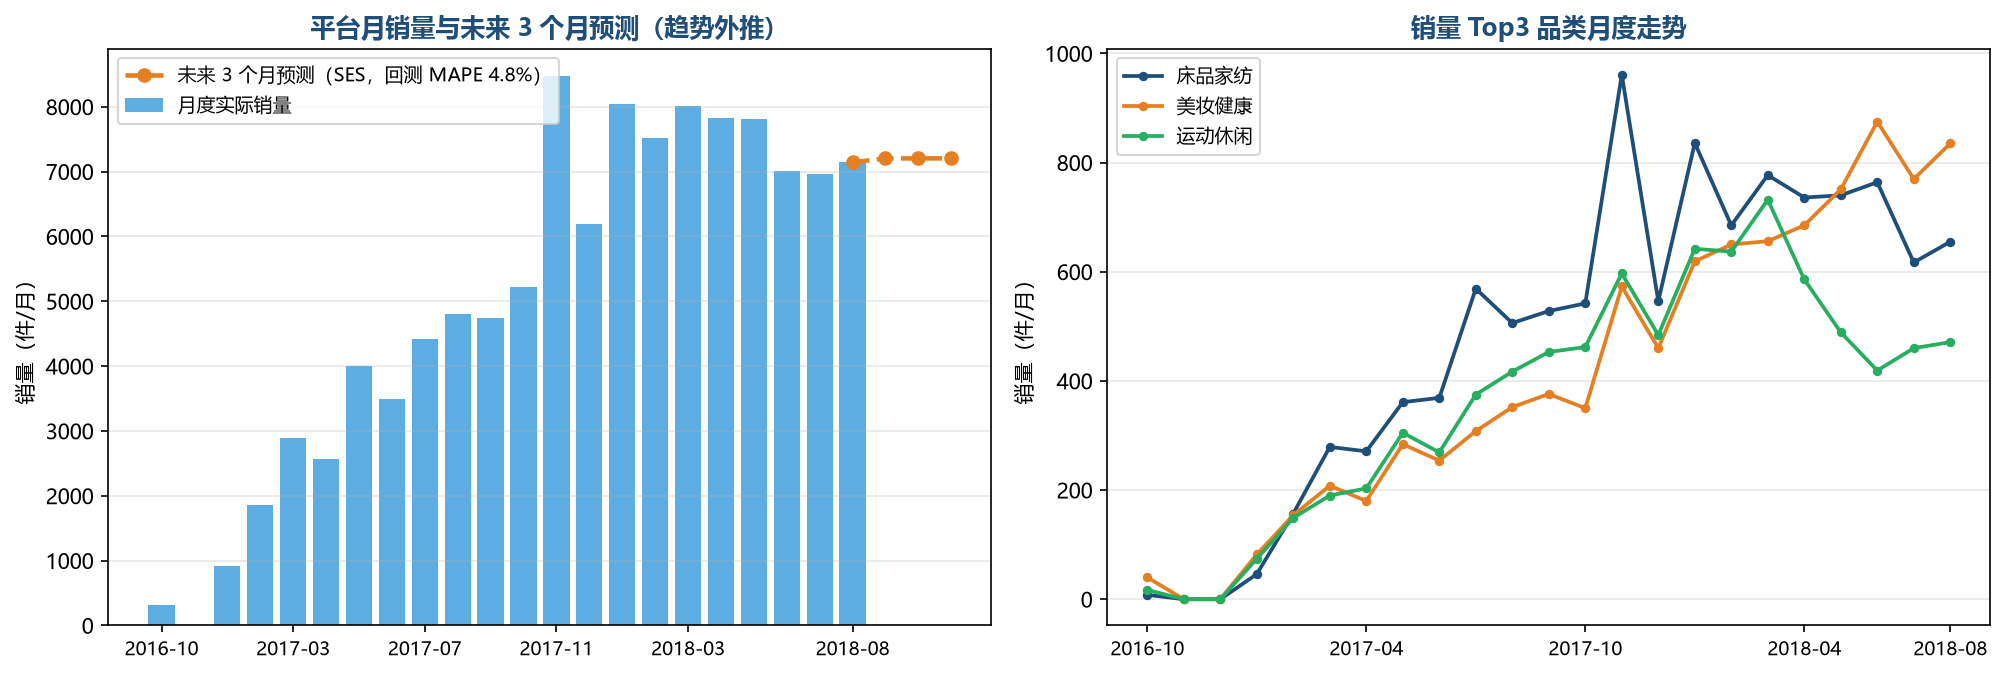
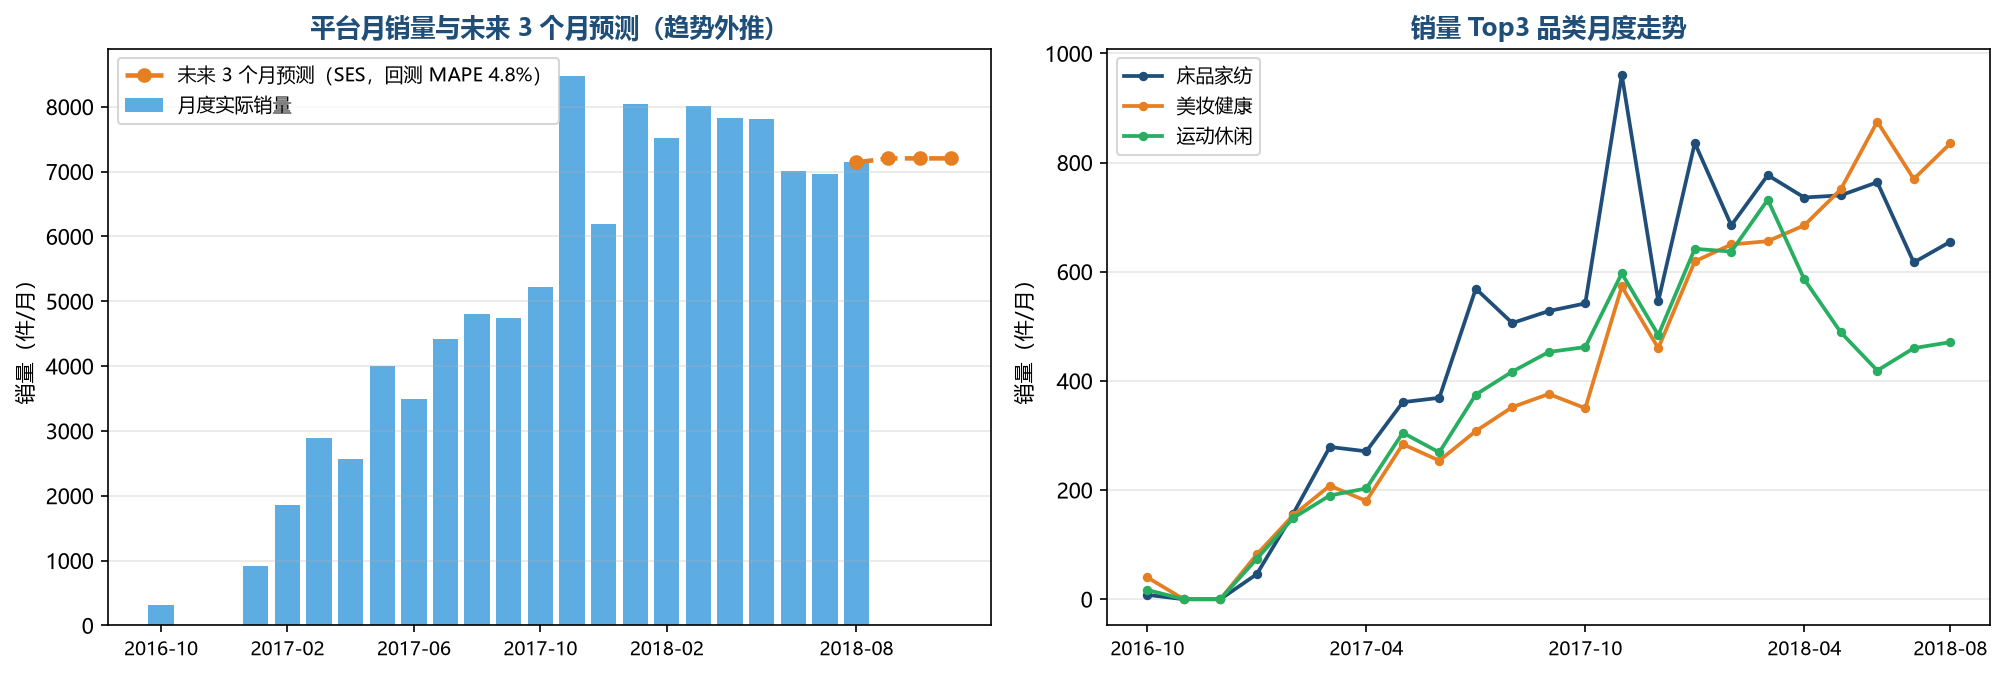
修复预测模型对照的两处口径问题（不影响简历数字）
- 修复 SES 列全 NaN：平滑值序列长度不匹配（应取最后一个水平值展开成验证期预测）
- 修复平台月度序列缺月未补：补 0 后序列 23 个月，时间轴连续
- 修复后对照结果：SES 4.8% / 线性回归 38.3% / 移动平均 8.1%（与简历一致）
- 报告与口径同步：月均销量 4,791 件、序列 23 个月、回测前 19 月训练

Changed region(s): [[0.0928, 0.1244, 0.4638, 0.9956], [0.0618, 0.9333, 0.0928, 0.9644]]

diff --git a/market/analysis.py b/market/analysis.py
@@ -230,7 +230,8 @@ for 品类 in top8:
 
 pred_df = pd.DataFrame(rows)
 
-tot = monthly.groupby("月份")["件数"].sum().sort_index()
+tot = monthly.groupby("月份")["件数"].sum().sort_index().reindex(
+    pd.period_range(P0, P1, freq="M"), fill_value=0)
 tot_pred = ses(tot, alpha=0.3)
 tot_test = pd.Series([tot_pred.iloc[:-4].iloc[-1]] * 4, index=tot.index[-4:])
 tot_mape = mape(tot.iloc[-4:], tot_test)
@@ -259,13 +260,17 @@ def linreg_forecast(train, test):
 def ma3_forecast(train, test):
     return pd.Series([train.iloc[-3:].mean()] * len(test), index=test.index)
 
+def ses_forecast_test(train, test, alpha=0.3):
+    lvl = float(ses(train, alpha).iloc[-1])
+    return pd.Series([lvl] * len(test), index=test.index)
+
 comp = []
 for 名称 in ["平台总体"] + top8:
     s = tot if 名称 == "平台总体" else monthly[monthly["品类"] == 名称].set_index("月份")["件数"].sort_index().reindex(
         pd.period_range(P0, P1, freq="M"), fill_value=0)
     tr, te = s.iloc[:-4], s.iloc[-4:]
     comp.append({"序列": 名称,
-                 "SES_MAPE%": round(mape(te, ses(tr, 0.3)), 1),
+                 "SES_MAPE%": round(mape(te, ses_forecast_test(tr, te)), 1),
                  "线性回归_MAPE%": round(mape(te, linreg_forecast(tr, te)), 1),
                  "3期移动平均_MAPE%": round(mape(te, ma3_forecast(tr, te)), 1)})
 comp_df = pd.DataFrame(comp)

diff --git a/market/报告_商品市场.md b/market/报告_商品市场.md
@@ -96,9 +96,9 @@
 
 > 模块四（品类×履约联合分析）见第八章 5.2。
 
-**方法**：品类×月度销量序列（2016-10 至 2018-08，22 个月），指数平滑（SES，α=0.3）外推。回测方式：前 18 个月训练、后 4 个月验证，误差用 MAPE 衡量。
+**方法**：品类×月度销量序列（2016-10 至 2018-08，23 个月），指数平滑（SES，α=0.3）外推。回测方式：前 19 个月训练、后 4 个月验证，误差用 MAPE 衡量。
 
-**结果**：平台层回测 MAPE **4.8%**，月均销量 5,009 件，未来 3 个月预测 7,204 件/月。品类层 MAPE 8.7%~44.3%（销量波动大的品类误差大，如实披露）。
+**结果**：平台层回测 MAPE **4.8%**，月均销量 4,791 件，未来 3 个月预测 7,204 件/月。品类层 MAPE 8.7%~44.3%（销量波动大的品类误差大，如实披露）。
 
 **模型对照（同口径回测，MAPE 越低越好）**：
 
@@ -174,7 +174,7 @@
 | 2 次 | 2,745 | 2.9% | 4.9% | 245.08 | 14.35% |
 | 3 次及以上 | 252 | 0.3% | 0.8% | **420.91** | **10.89%** |
 
-**结论（复购）**：平台复购率仅 **3.12%**（96,096 名客户），本质是一次性流量生意；但复购客户的价值明显更高——3 次及以上客户人均消费 420.91 元（一次性客户的 3.1 倍），差评占比反而最低（10.89%）。两条实际含义：拉新仍是平台主引擎；**把首单用户转成复购用户，等于同时提升客单与口碑**，是投入产出比最高的一类动作。复购窗口受数据口径限制（数据跨度 22 个月、772 天），复购率是下界估计。
+**结论（复购）**：平台复购率仅 **3.12%**（96,096 名客户），本质是一次性流量生意；但复购客户的价值明显更高——3 次及以上客户人均消费 420.91 元（一次性客户的 3.1 倍），差评占比反而最低（10.89%）。两条实际含义：拉新仍是平台主引擎；**把首单用户转成复购用户，等于同时提升客单与口碑**，是投入产出比最高的一类动作。复购窗口受数据口径限制（数据跨度 772 天），复购率是下界估计。
 
 图表：`图表/订单漏斗图.png`、`图表/用户复购分层图.png`。结果表：`data/订单漏斗.csv`、`data/用户复购分层.csv`。
 
